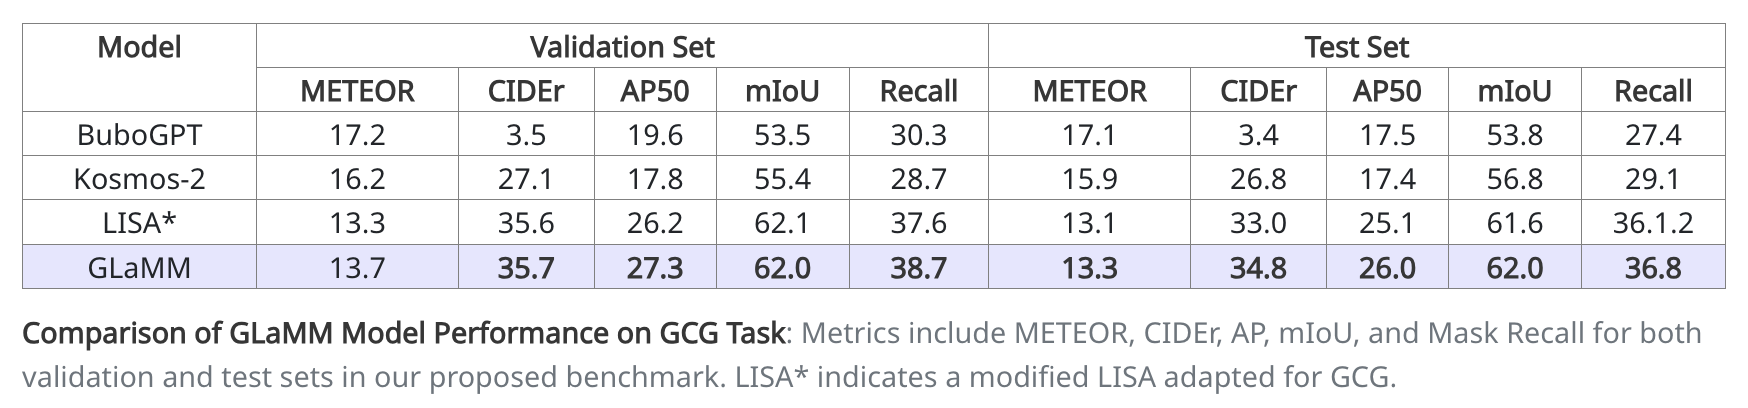
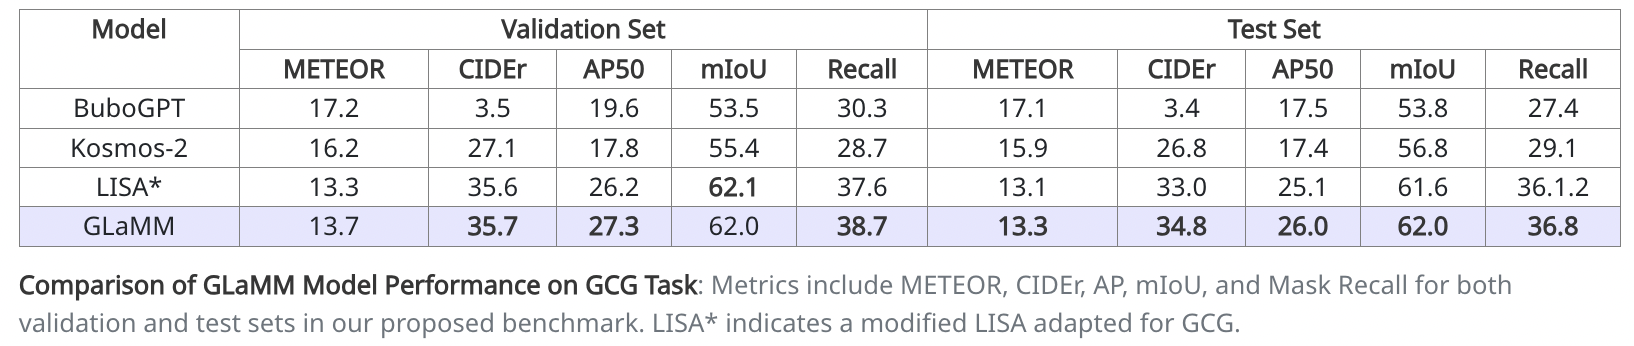
Updates index

diff --git a/index.html b/index.html
@@ -461,7 +461,7 @@
                 <td>13.3</td>
                 <td>35.6</td>
                 <td>26.2</td>
-                <td>62.1</td>
+                <th>62.1</th>
                 <td>37.6</td>
                 <td>13.1</td>
                 <td>33.0</td>
@@ -474,7 +474,7 @@
                 <td>13.7</td>
                 <th>35.7</th>
                 <th>27.3</th>
-                <th>62.0</th>
+                <td>62.0</td>
                 <th>38.7</th>
                 <th>13.3</th>
                 <th>34.8</th>
